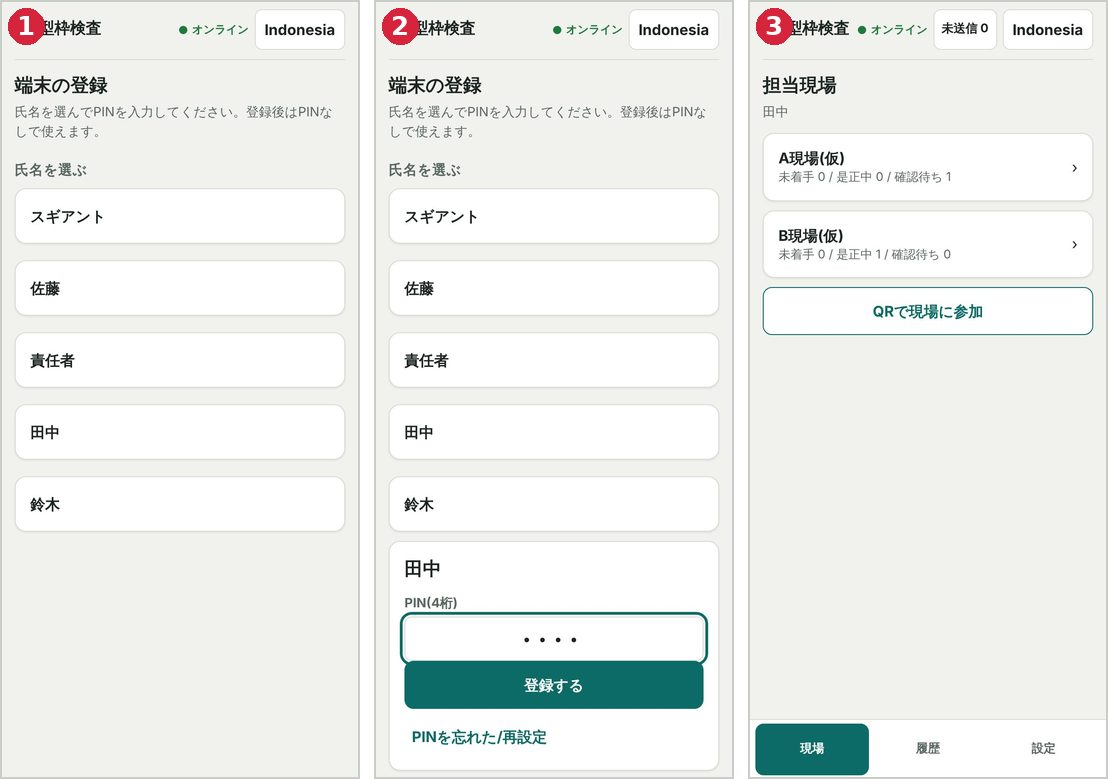
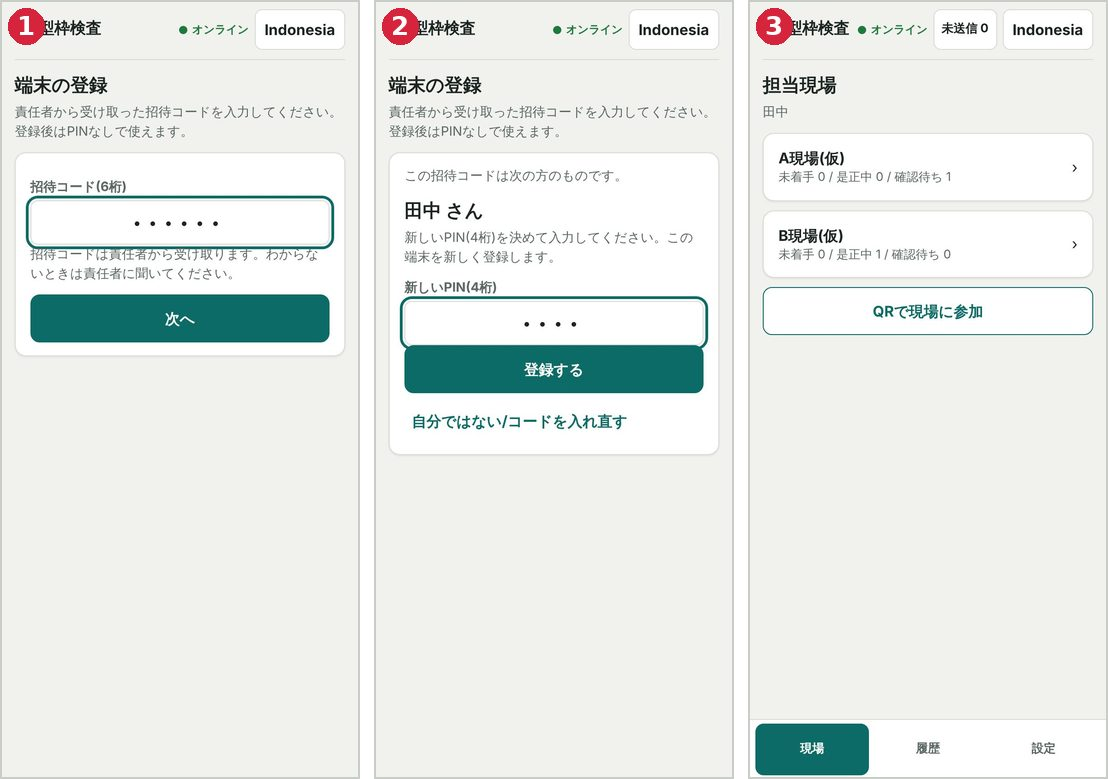
docs: 登録画面のキャプチャを招待コード先行の新UIに更新
Claude-Session: https://claude.ai/code/session_01BgQNN8WWX2ApqLtkWfuQJU

diff --git a/docs/manual/capture-screens.js b/docs/manual/capture-screens.js
@@ -45,10 +45,11 @@ async function makeJpeg(page, w = 1200, h = 800) {
     const f = await E.newSession(env);
     const { page } = f;
     // --- 初回登録 ---
+    const code = await E.issueCode('田中', env);
     await page.goto(f.base + '/#/register');
-    await page.locator('.userlist button').first().waitFor();
+    await page.locator('input[name=invite]').fill(code);
     await shot(f, 'f01-register-list');
-    await page.locator('.userlist button', { hasText: '田中' }).click();
+    await page.getByRole('button', { name: f.t('scr.S01.next') }).click();
     await page.locator('input[name=pin]').fill('1111');
     await shot(f, 'f02-register-pin');
     await page.getByRole('button', { name: f.t('scr.S01.register') }).click();
